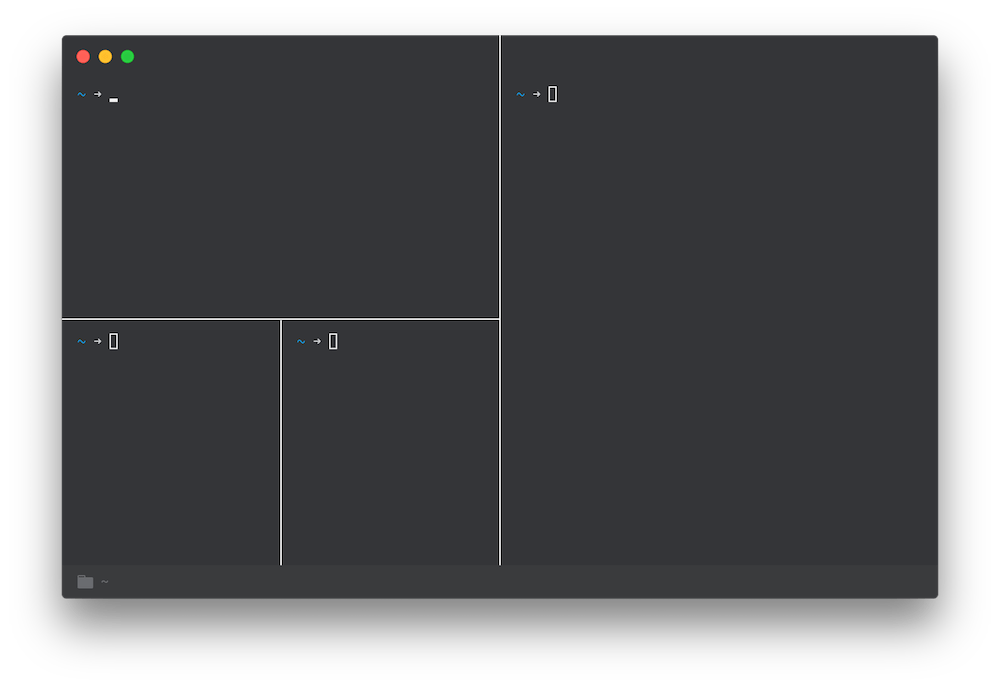
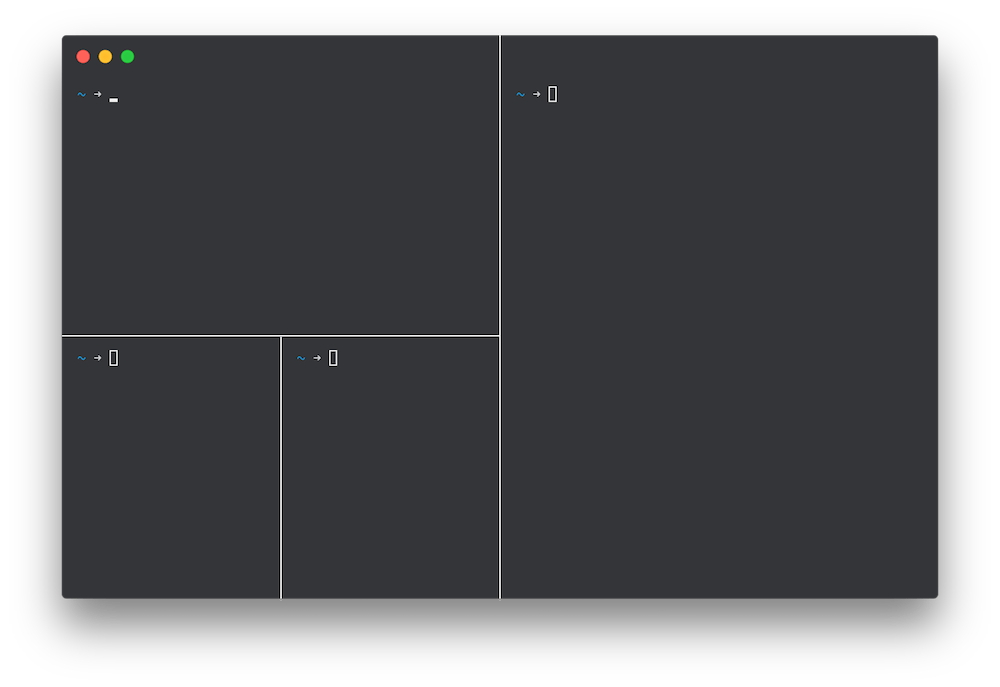
readme + debug easter egg (not really)

diff --git a/index.js b/index.js
@@ -17,4 +17,5 @@ exports.decorateConfig = (config) => {
 			}
 		`
 	});
+	// .splitpane_divider {background-color:#fff !important;} for debugging
 };

diff --git a/README.md b/README.md
@@ -3,6 +3,11 @@ Fixes the vertical split border in hyper
 
 [![npm](https://img.shields.io/npm/v/hyper-vsplit-fix.svg)](https://www.npmjs.com/package/hyper-vsplit-fix) [![npm](https://img.shields.io/npm/dt/hyper-vsplit-fix.svg)](https://www.npmjs.com/package/hyper-vsplit-fix)
 
+
+<img width="444px" style="display: inline-block;" src="https://raw.githubusercontent.com/harryparkdotio/hyper-vsplit-fix/master/installed.png" meta="installed"><img width="444px" style="display: inline-block;" src="https://raw.githubusercontent.com/harryparkdotio/hyper-vsplit-fix/master/not-installed.png" meta="installed">
+
+> **`white` border is for indication only**
+
 ## Install
 
 Add following to your `~/.hyper.js` config.
@@ -15,24 +20,12 @@ module.exports = {
 }
 ```
 
-> *installed*
-
-![installed](https://raw.githubusercontent.com/harryparkdotio/hyper-vsplit-fix/master/installed.png)
-
-
-
-> *not installed*
-
-![not-installed](https://raw.githubusercontent.com/harryparkdotio/hyper-vsplit-fix/master/not-installed.png)
-
-> ***white border color is not included in package, only used to highlight the effect of the plugin***
-
 ## Config
 
 Add following to `~/.hyper.js`
 
 ### Change extra height
-Default value is set to 34
+Default value is set to 34 (macOS)
 
 ```javascript
 module.exports = {
@@ -46,5 +39,3 @@ module.exports = {
   }
 }
 ```
-
-> 34px is the tested height for macOS
